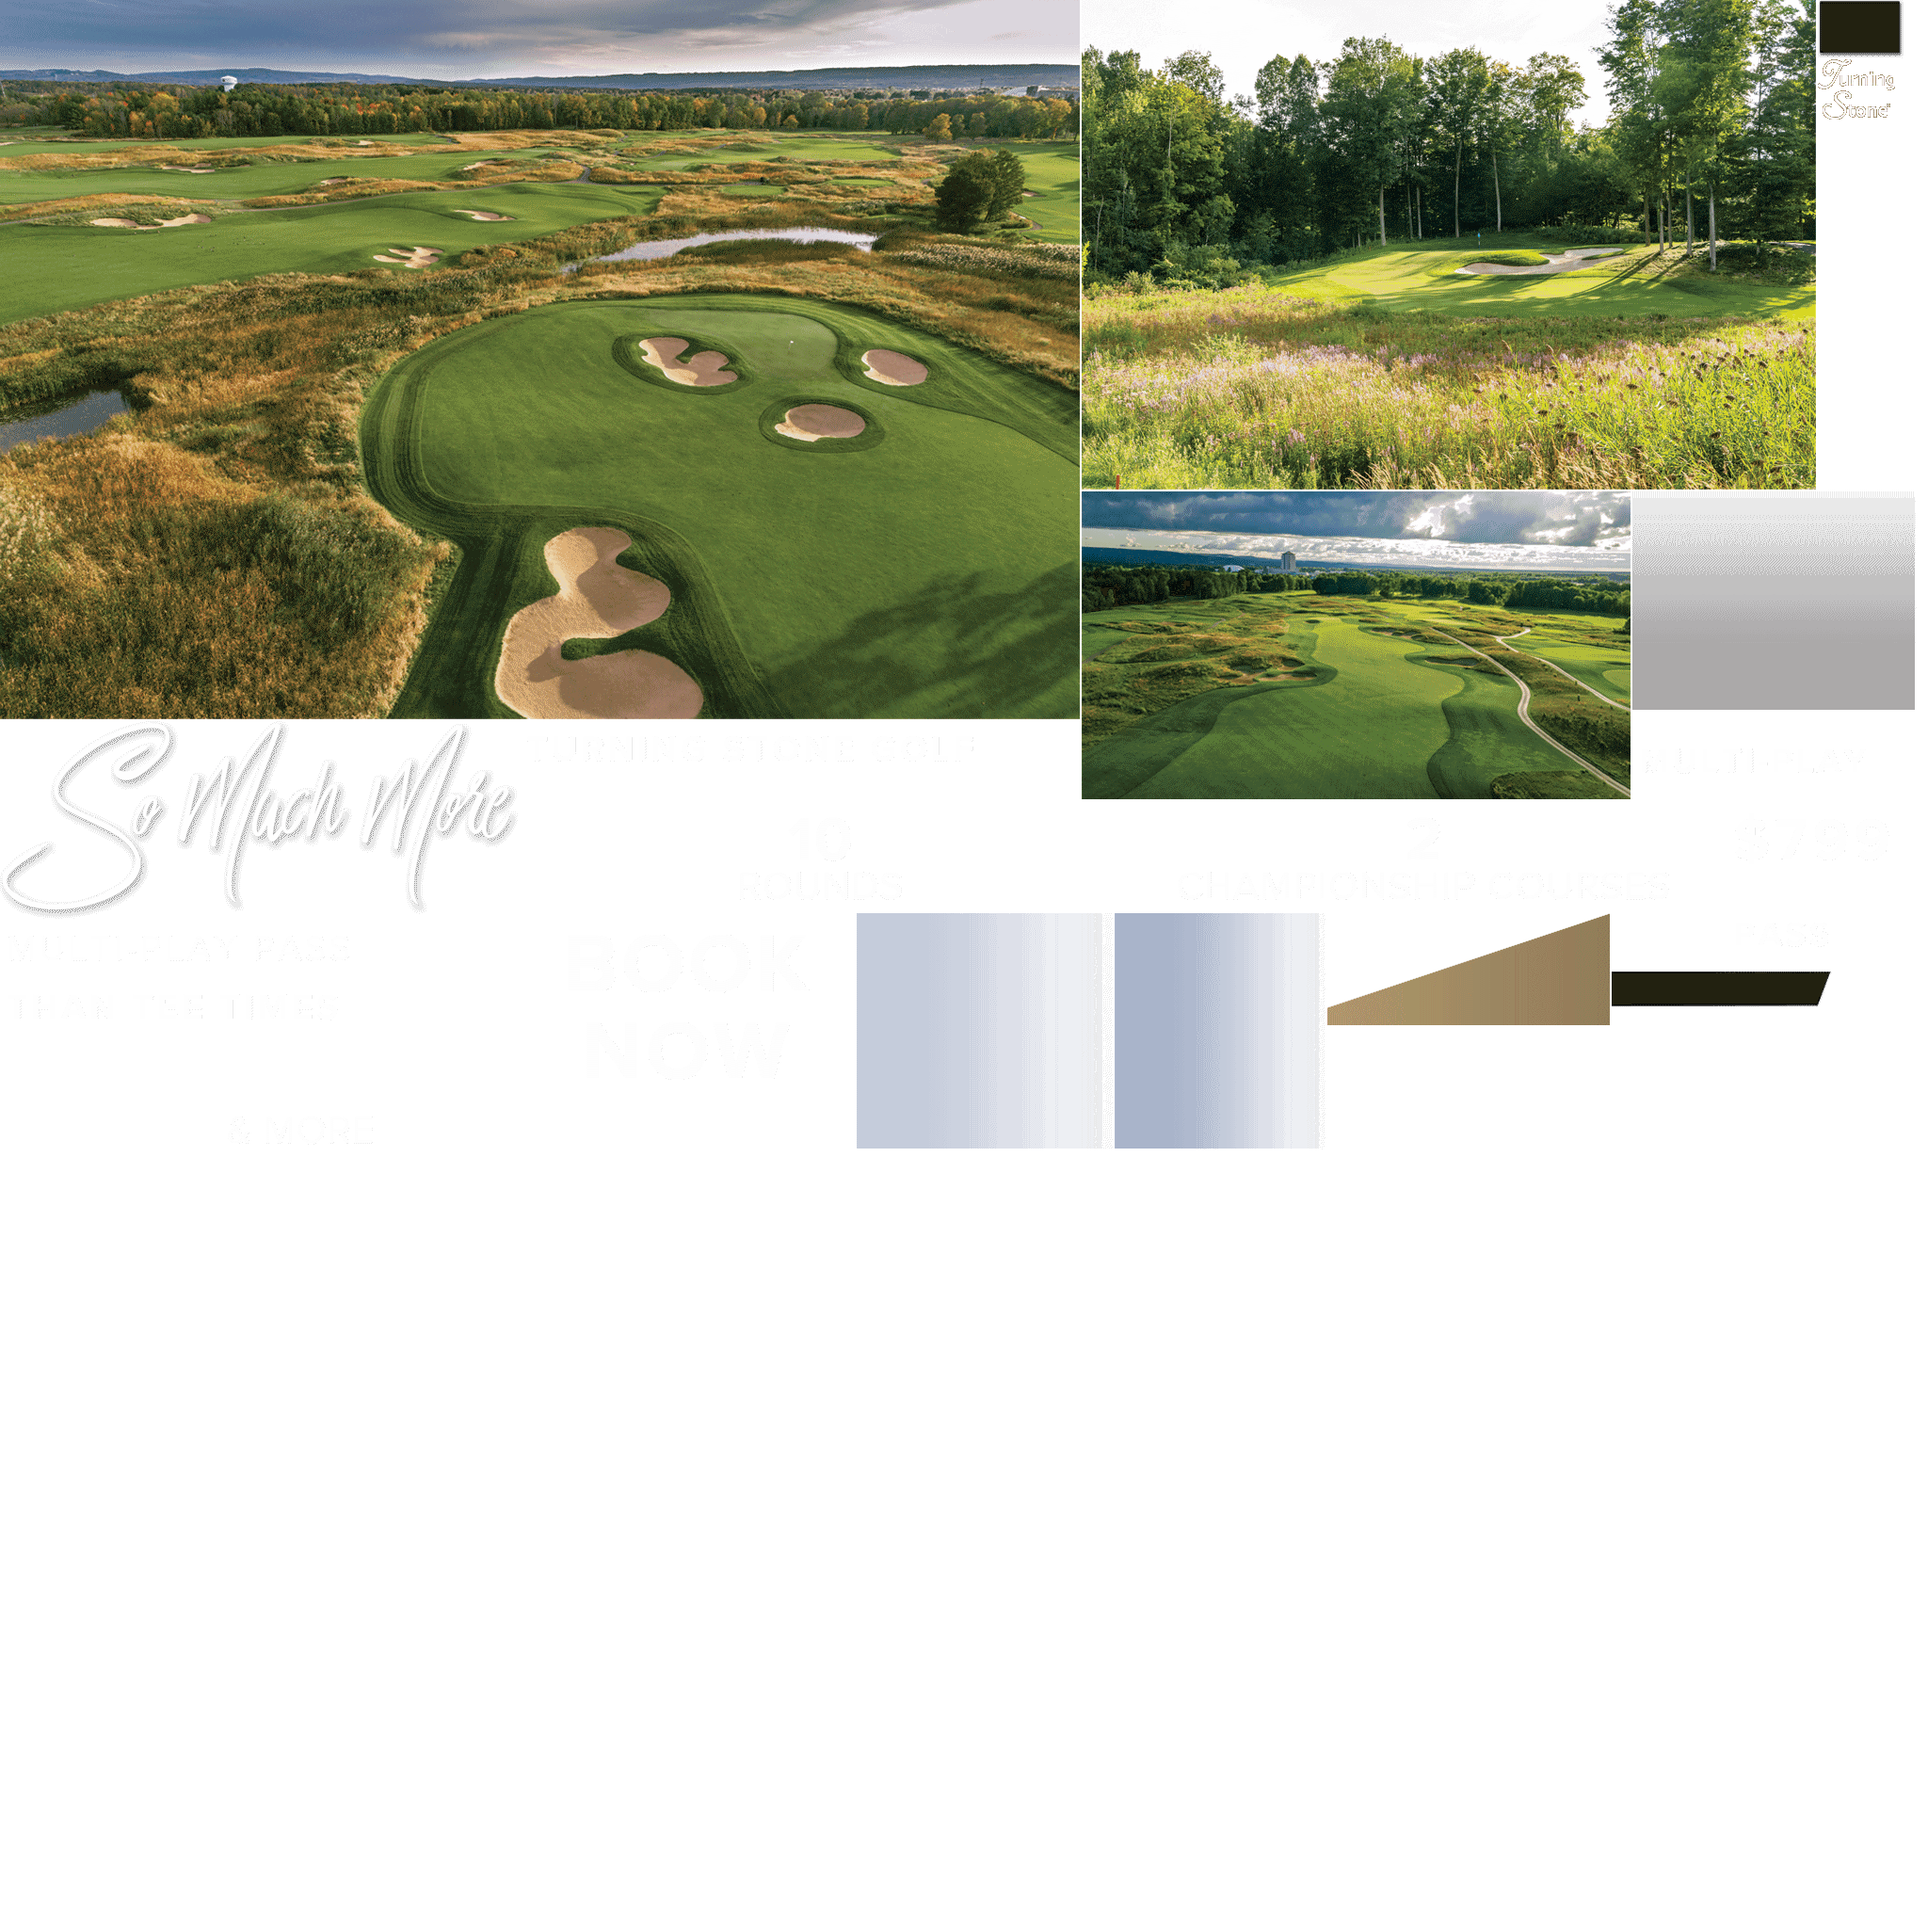
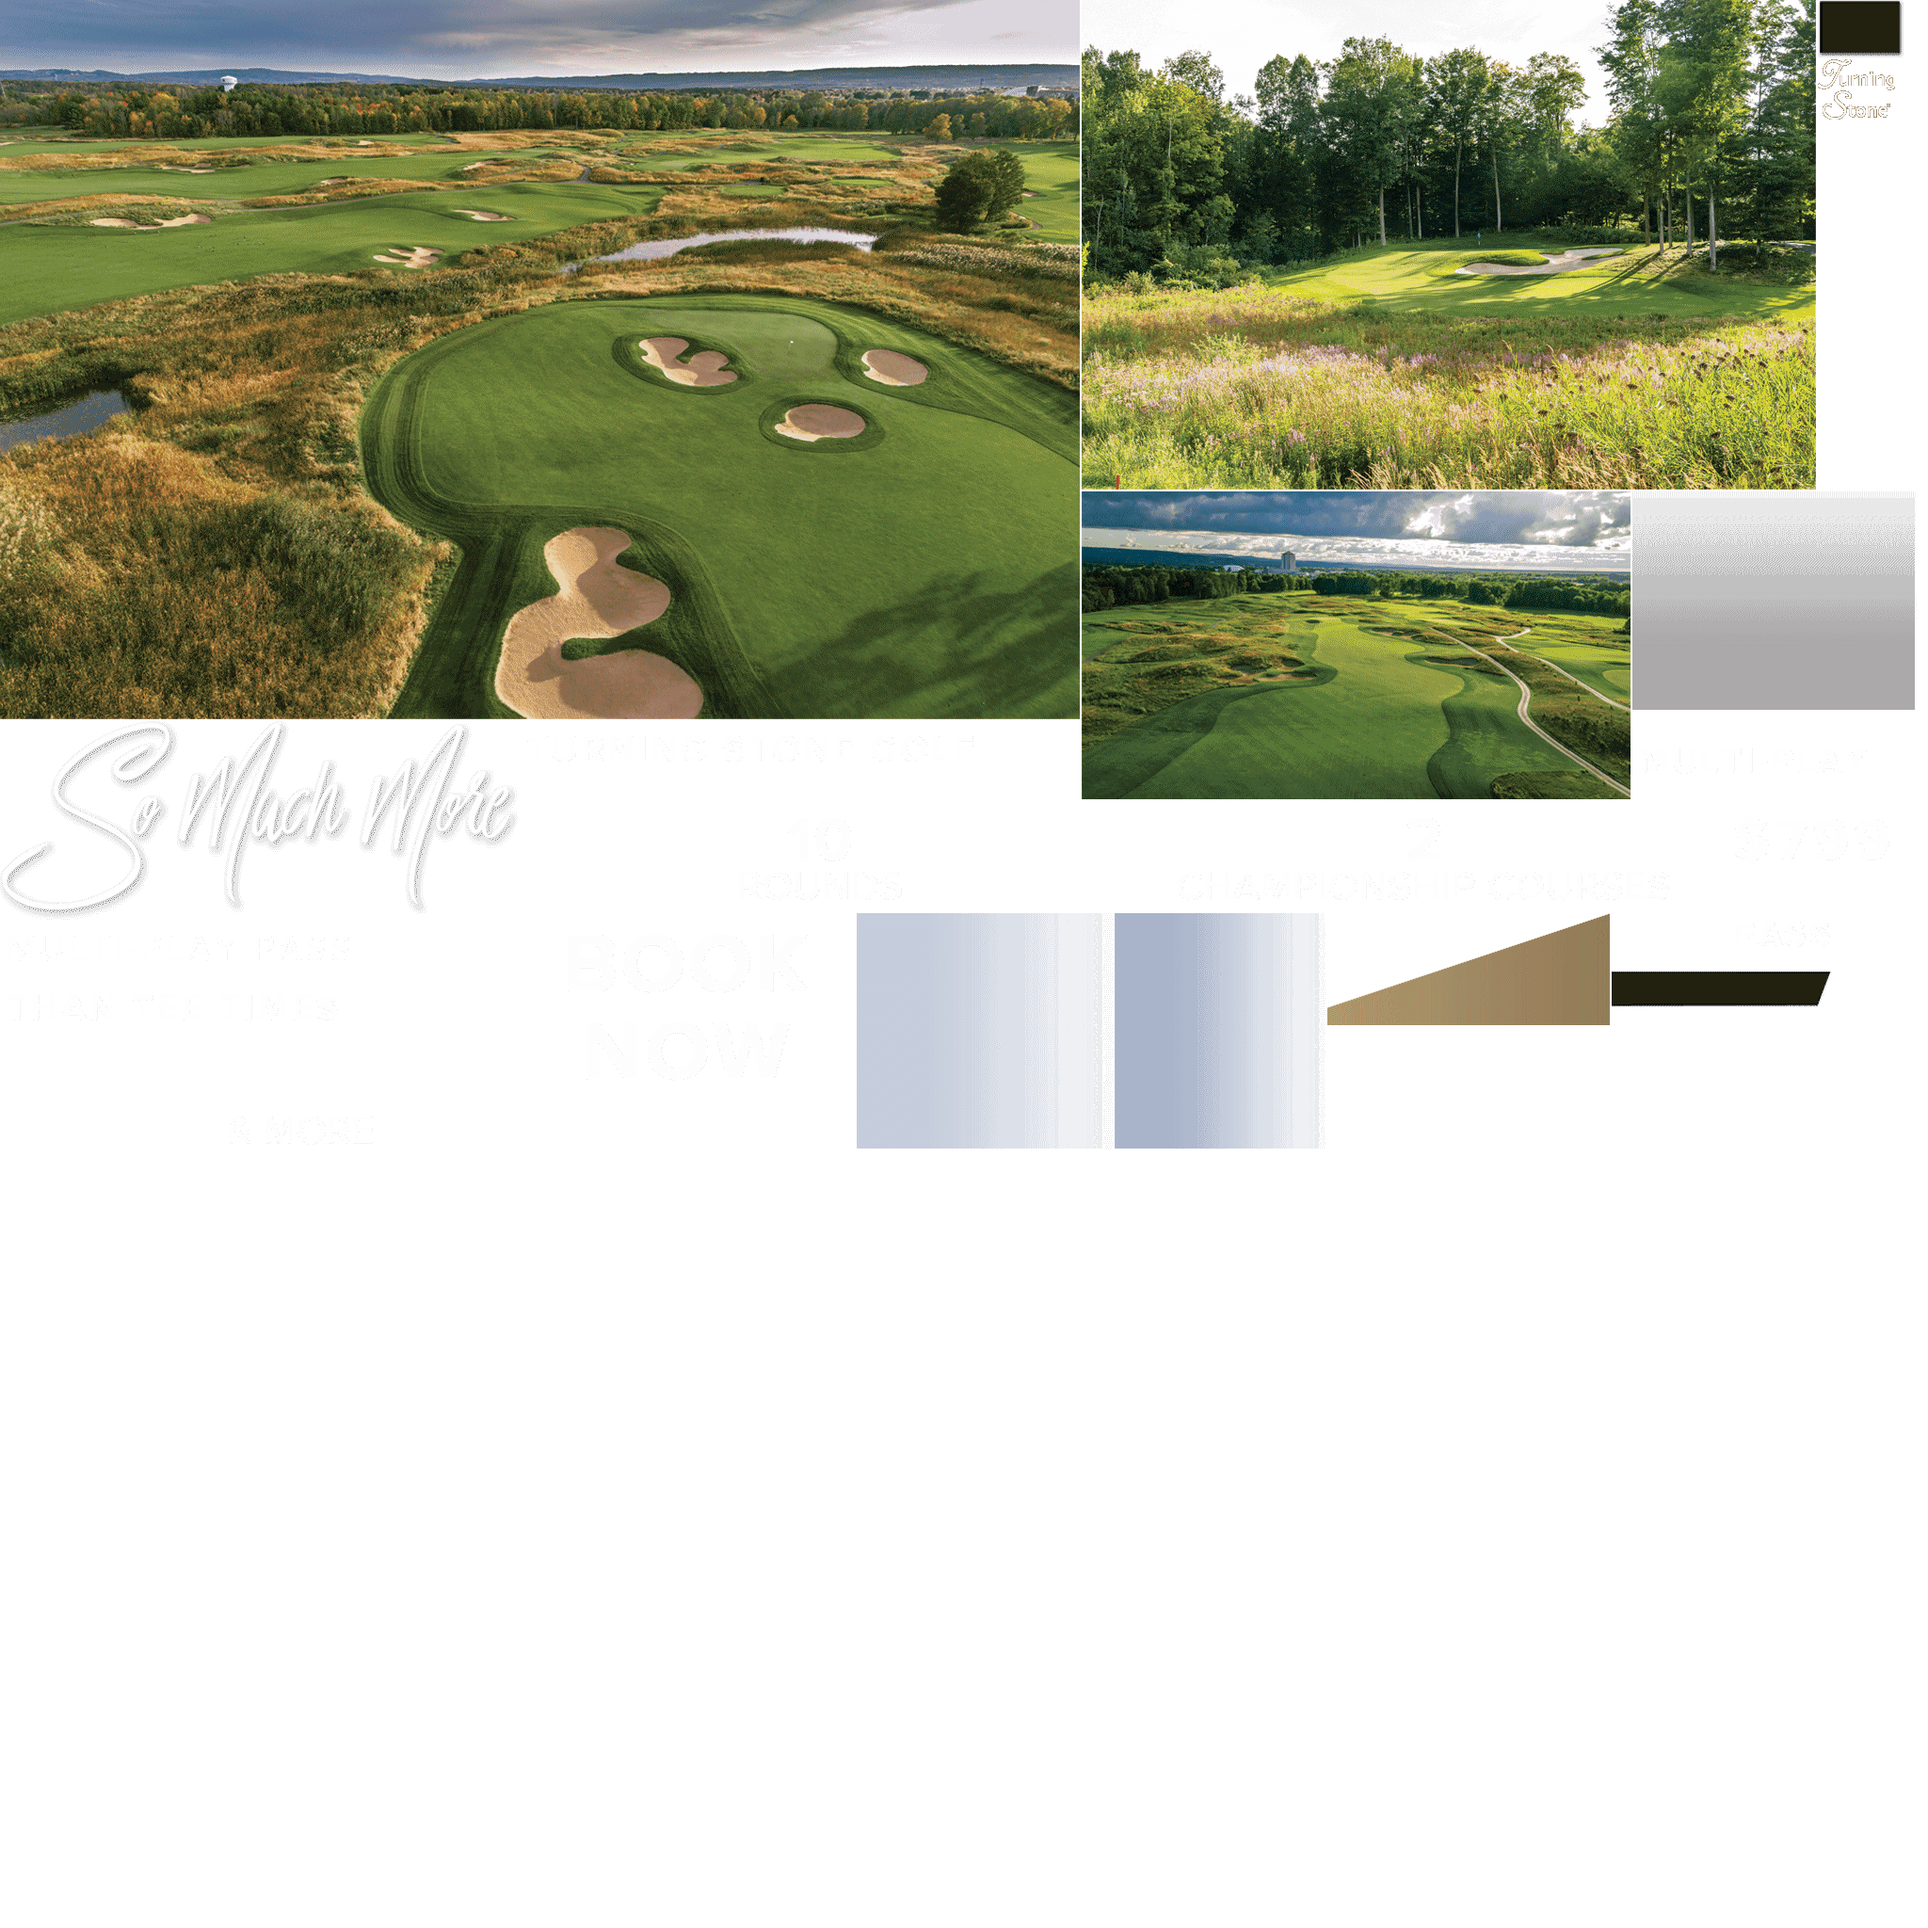
Golf Multiplay

diff --git a/golf-multiplay/300x250/GolfMultiplayer-300x250.js b/golf-multiplay/300x250/GolfMultiplayer-300x250.js
@@ -27,70 +27,70 @@ lib.ssMetadata = [
 
 
 
-(lib.CachedBmp_127 = function() {
+(lib.CachedBmp_10 = function() {
 	this.initialize(ss["GolfMultiplayer_300x250_atlas_1"]);
 	this.gotoAndStop(0);
 }).prototype = p = new cjs.Sprite();
 
 
 
-(lib.CachedBmp_126 = function() {
+(lib.CachedBmp_9 = function() {
 	this.initialize(ss["GolfMultiplayer_300x250_atlas_1"]);
 	this.gotoAndStop(1);
 }).prototype = p = new cjs.Sprite();
 
 
 
-(lib.CachedBmp_125 = function() {
+(lib.CachedBmp_8 = function() {
 	this.initialize(ss["GolfMultiplayer_300x250_atlas_1"]);
 	this.gotoAndStop(2);
 }).prototype = p = new cjs.Sprite();
 
 
 
-(lib.CachedBmp_124 = function() {
+(lib.CachedBmp_7 = function() {
 	this.initialize(ss["GolfMultiplayer_300x250_atlas_1"]);
 	this.gotoAndStop(3);
 }).prototype = p = new cjs.Sprite();
 
 
 
-(lib.CachedBmp_123 = function() {
+(lib.CachedBmp_6 = function() {
 	this.initialize(ss["GolfMultiplayer_300x250_atlas_1"]);
 	this.gotoAndStop(4);
 }).prototype = p = new cjs.Sprite();
 
 
 
-(lib.CachedBmp_122 = function() {
+(lib.CachedBmp_5 = function() {
 	this.initialize(ss["GolfMultiplayer_300x250_atlas_1"]);
 	this.gotoAndStop(5);
 }).prototype = p = new cjs.Sprite();
 
 
 
-(lib.CachedBmp_121 = function() {
+(lib.CachedBmp_4 = function() {
 	this.initialize(ss["GolfMultiplayer_300x250_atlas_1"]);
 	this.gotoAndStop(6);
 }).prototype = p = new cjs.Sprite();
 
 
 
-(lib.CachedBmp_120 = function() {
+(lib.CachedBmp_3 = function() {
 	this.initialize(ss["GolfMultiplayer_300x250_atlas_1"]);
 	this.gotoAndStop(7);
 }).prototype = p = new cjs.Sprite();
 
 
 
-(lib.CachedBmp_119 = function() {
+(lib.CachedBmp_2 = function() {
 	this.initialize(ss["GolfMultiplayer_300x250_atlas_1"]);
 	this.gotoAndStop(8);
 }).prototype = p = new cjs.Sprite();
 
 
 
-(lib.CachedBmp_118 = function() {
+(lib.CachedBmp_1 = function() {
 	this.initialize(ss["GolfMultiplayer_300x250_atlas_1"]);
 	this.gotoAndStop(9);
 }).prototype = p = new cjs.Sprite();
@@ -308,72 +308,6 @@ if (reversed == null) { reversed = false; }
 p.nominalBounds = new cjs.Rectangle(-150,-125,300,250);
 
 
-(lib.Pass = function(mode,startPosition,loop,reversed) {
-if (loop == null) { loop = true; }
-if (reversed == null) { reversed = false; }
-	var props = new Object();
-	props.mode = mode;
-	props.startPosition = startPosition;
-	props.labels = {};
-	props.loop = loop;
-	props.reversed = reversed;
-	cjs.MovieClip.apply(this,[props]);
-
-	// Layer_1
-	this.instance = new lib.CachedBmp_127();
-	this.instance.setTransform(-35.1,-49.5,0.5,0.5);
-
-	this.timeline.addTween(cjs.Tween.get(this.instance).wait(1));
-
-	this._renderFirstFrame();
-
-}).prototype = getMCSymbolPrototype(lib.Pass, new cjs.Rectangle(-35.1,-49.5,60,45), null);
-
-
-(lib.MULTIPLAYPASS799 = function(mode,startPosition,loop,reversed) {
-if (loop == null) { loop = true; }
-if (reversed == null) { reversed = false; }
-	var props = new Object();
-	props.mode = mode;
-	props.startPosition = startPosition;
-	props.labels = {};
-	props.loop = loop;
-	props.reversed = reversed;
-	cjs.MovieClip.apply(this,[props]);
-
-	// Layer_1
-	this.instance = new lib.CachedBmp_126();
-	this.instance.setTransform(-69.8,-49.5,0.5,0.5);
-
-	this.timeline.addTween(cjs.Tween.get(this.instance).wait(1));
-
-	this._renderFirstFrame();
-
-}).prototype = getMCSymbolPrototype(lib.MULTIPLAYPASS799, new cjs.Rectangle(-69.8,-49.5,129.5,45), null);
-
-
-(lib.Frame3BOOKNOW = function(mode,startPosition,loop,reversed) {
-if (loop == null) { loop = true; }
-if (reversed == null) { reversed = false; }
-	var props = new Object();
-	props.mode = mode;
-	props.startPosition = startPosition;
-	props.labels = {};
-	props.loop = loop;
-	props.reversed = reversed;
-	cjs.MovieClip.apply(this,[props]);
-
-	// Layer_1
-	this.instance = new lib.CachedBmp_125();
-	this.instance.setTransform(-40.1,-25.6,0.2257,0.2257);
-
-	this.timeline.addTween(cjs.Tween.get(this.instance).wait(1));
-
-	this._renderFirstFrame();
-
-}).prototype = getMCSymbolPrototype(lib.Frame3BOOKNOW, new cjs.Rectangle(-40.1,-25.6,80.4,45.8), null);
-
-
 (lib.Frame3BookLINKarea_1 = function(mode,startPosition,loop,reversed) {
 if (loop == null) { loop = true; }
 if (reversed == null) { reversed = false; }
@@ -396,6 +330,94 @@ if (reversed == null) { reversed = false; }
 }).prototype = getMCSymbolPrototype(lib.Frame3BookLINKarea_1, new cjs.Rectangle(-45.5,-30.5,91,61), null);
 
 
+(lib.BarunderTagline_1 = function(mode,startPosition,loop,reversed) {
+if (loop == null) { loop = true; }
+if (reversed == null) { reversed = false; }
+	var props = new Object();
+	props.mode = mode;
+	props.startPosition = startPosition;
+	props.labels = {};
+	props.loop = loop;
+	props.reversed = reversed;
+	cjs.MovieClip.apply(this,[props]);
+
+	// Layer_1
+	this.instance = new lib.BarunderTagline();
+	this.instance.setTransform(-116.5,-18.5);
+
+	this.timeline.addTween(cjs.Tween.get(this.instance).wait(1));
+
+	this._renderFirstFrame();
+
+}).prototype = getMCSymbolPrototype(lib.BarunderTagline_1, new cjs.Rectangle(-116.5,-18.5,233,37), null);
+
+
+(lib.Pass = function(mode,startPosition,loop,reversed) {
+if (loop == null) { loop = true; }
+if (reversed == null) { reversed = false; }
+	var props = new Object();
+	props.mode = mode;
+	props.startPosition = startPosition;
+	props.labels = {};
+	props.loop = loop;
+	props.reversed = reversed;
+	cjs.MovieClip.apply(this,[props]);
+
+	// Layer_1
+	this.instance = new lib.CachedBmp_10();
+	this.instance.setTransform(-35.1,-49.5,0.5,0.5);
+
+	this.timeline.addTween(cjs.Tween.get(this.instance).wait(1));
+
+	this._renderFirstFrame();
+
+}).prototype = getMCSymbolPrototype(lib.Pass, new cjs.Rectangle(-35.1,-49.5,60,45), null);
+
+
+(lib.MULTIPLAYPASS799 = function(mode,startPosition,loop,reversed) {
+if (loop == null) { loop = true; }
+if (reversed == null) { reversed = false; }
+	var props = new Object();
+	props.mode = mode;
+	props.startPosition = startPosition;
+	props.labels = {};
+	props.loop = loop;
+	props.reversed = reversed;
+	cjs.MovieClip.apply(this,[props]);
+
+	// Layer_1
+	this.instance = new lib.CachedBmp_9();
+	this.instance.setTransform(-69.8,-49.5,0.5,0.5);
+
+	this.timeline.addTween(cjs.Tween.get(this.instance).wait(1));
+
+	this._renderFirstFrame();
+
+}).prototype = getMCSymbolPrototype(lib.MULTIPLAYPASS799, new cjs.Rectangle(-69.8,-49.5,129.5,45), null);
+
+
+(lib.Frame3BOOKNOW = function(mode,startPosition,loop,reversed) {
+if (loop == null) { loop = true; }
+if (reversed == null) { reversed = false; }
+	var props = new Object();
+	props.mode = mode;
+	props.startPosition = startPosition;
+	props.labels = {};
+	props.loop = loop;
+	props.reversed = reversed;
+	cjs.MovieClip.apply(this,[props]);
+
+	// Layer_1
+	this.instance = new lib.CachedBmp_8();
+	this.instance.setTransform(-40.1,-25.6,0.2257,0.2257);
+
+	this.timeline.addTween(cjs.Tween.get(this.instance).wait(1));
+
+	this._renderFirstFrame();
+
+}).prototype = getMCSymbolPrototype(lib.Frame3BOOKNOW, new cjs.Rectangle(-40.1,-25.6,80.4,45.8), null);
+
+
 (lib._799 = function(mode,startPosition,loop,reversed) {
 if (loop == null) { loop = true; }
 if (reversed == null) { reversed = false; }
@@ -408,7 +430,7 @@ if (reversed == null) { reversed = false; }
 	cjs.MovieClip.apply(this,[props]);
 
 	// Layer_1
-	this.instance = new lib.CachedBmp_124();
+	this.instance = new lib.CachedBmp_7();
 	this.instance.setTransform(-51.85,-49.5,0.5,0.5);
 
 	this.timeline.addTween(cjs.Tween.get(this.instance).wait(1));
@@ -452,7 +474,7 @@ if (reversed == null) { reversed = false; }
 	cjs.MovieClip.apply(this,[props]);
 
 	// Layer_1
-	this.instance = new lib.CachedBmp_123();
+	this.instance = new lib.CachedBmp_6();
 	this.instance.setTransform(-159.85,-165.4,0.5,0.5);
 
 	this.timeline.addTween(cjs.Tween.get(this.instance).wait(1));
@@ -474,7 +496,7 @@ if (reversed == null) { reversed = false; }
 	cjs.MovieClip.apply(this,[props]);
 
 	// Layer_1
-	this.instance = new lib.CachedBmp_122();
+	this.instance = new lib.CachedBmp_5();
 	this.instance.setTransform(-159.85,-165.4,0.5,0.5);
 
 	this.timeline.addTween(cjs.Tween.get(this.instance).wait(1));
@@ -496,7 +518,7 @@ if (reversed == null) { reversed = false; }
 	cjs.MovieClip.apply(this,[props]);
 
 	// Layer_1
-	this.instance = new lib.CachedBmp_121();
+	this.instance = new lib.CachedBmp_4();
 	this.instance.setTransform(-159.85,-165.4,0.5,0.5);
 
 	this.timeline.addTween(cjs.Tween.get(this.instance).wait(1));
@@ -540,7 +562,7 @@ if (reversed == null) { reversed = false; }
 	cjs.MovieClip.apply(this,[props]);
 
 	// Layer_1
-	this.instance = new lib.CachedBmp_120();
+	this.instance = new lib.CachedBmp_3();
 	this.instance.setTransform(-133.45,-28.85,0.5,0.5);
 
 	this.timeline.addTween(cjs.Tween.get(this.instance).wait(1));
@@ -562,7 +584,7 @@ if (reversed == null) { reversed = false; }
 	cjs.MovieClip.apply(this,[props]);
 
 	// Layer_1
-	this.instance_1 = new lib.CachedBmp_119();
+	this.instance_1 = new lib.CachedBmp_2();
 	this.instance_1.setTransform(-105.95,-28.85,0.5,0.5);
 
 	this.timeline.addTween(cjs.Tween.get(this.instance_1).wait(1));
@@ -584,7 +606,7 @@ if (reversed == null) { reversed = false; }
 	cjs.MovieClip.apply(this,[props]);
 
 	// Layer_1
-	this.instance = new lib.CachedBmp_118();
+	this.instance = new lib.CachedBmp_1();
 	this.instance.setTransform(-101.6,-17.55,0.5,0.5);
 
 	this.timeline.addTween(cjs.Tween.get(this.instance).wait(1));
@@ -592,28 +614,6 @@ if (reversed == null) { reversed = false; }
 	this._renderFirstFrame();
 
 }).prototype = getMCSymbolPrototype(lib.THANTEETIMES, new cjs.Rectangle(-101.6,-17.5,185.5,30.5), null);
-
-
-(lib.BarunderTagline_1 = function(mode,startPosition,loop,reversed) {
-if (loop == null) { loop = true; }
-if (reversed == null) { reversed = false; }
-	var props = new Object();
-	props.mode = mode;
-	props.startPosition = startPosition;
-	props.labels = {};
-	props.loop = loop;
-	props.reversed = reversed;
-	cjs.MovieClip.apply(this,[props]);
-
-	// Layer_1
-	this.instance = new lib.BarunderTagline();
-	this.instance.setTransform(-116.5,-18.5);
-
-	this.timeline.addTween(cjs.Tween.get(this.instance).wait(1));
-
-	this._renderFirstFrame();
-
-}).prototype = getMCSymbolPrototype(lib.BarunderTagline_1, new cjs.Rectangle(-116.5,-18.5,233,37), null);
 
 
 // stage content:
@@ -697,11 +697,11 @@ if (reversed == null) { reversed = false; }
 
 	// Frame_3___Book_LINK_area
 	this.instance_3 = new lib.Frame3BookLINKarea_1();
-	this.instance_3.setTransform(74.5,143.4,2.0438,2.0441,0,0,0,0.2,0.3);
+	this.instance_3.setTransform(74.6,143.9,2.0218,2.022,0,0,0,0.4,0.5);
 	this.instance_3.alpha = 0;
 	this.instance_3._off = true;
 
-	this.timeline.addTween(cjs.Tween.get(this.instance_3).wait(292).to({_off:false},0).to({regX:0,regY:0,scaleX:1,scaleY:1,y:143.5,alpha:1},21,cjs.Ease.cubicOut).wait(47));
+	this.timeline.addTween(cjs.Tween.get(this.instance_3).wait(292).to({_off:false},0).to({regX:0,regY:0,scaleX:1,scaleY:1,x:74.5,y:143.5,alpha:1},21,cjs.Ease.cubicOut).wait(47));
 
 	// _99
 	this.instance_4 = new lib._799();
@@ -877,7 +877,7 @@ if (reversed == null) { reversed = false; }
 
 	// Bar_under_Tagline
 	this.instance_19 = new lib.BarunderTagline_1();
-	this.instance_19.setTransform(-120,84.5);
+	this.instance_19.setTransform(-122,84.5);
 
 	this.timeline.addTween(cjs.Tween.get(this.instance_19).to({x:116.5},23,cjs.Ease.quintOut).to({_off:true},85).wait(252));
 
@@ -905,8 +905,8 @@ lib.properties = {
 	color: "#FFFFFF",
 	opacity: 1.00,
 	manifest: [
-		{src:"images/Frame2ImageMed.jpg?1618764831532", id:"Frame2ImageMed"},
-		{src:"images/GolfMultiplayer_300x250_atlas_1.png?1618764831494", id:"GolfMultiplayer_300x250_atlas_1"}
+		{src:"images/Frame2ImageMed.jpg?1618767837425", id:"Frame2ImageMed"},
+		{src:"images/GolfMultiplayer_300x250_atlas_1.png?1618767837390", id:"GolfMultiplayer_300x250_atlas_1"}
 	],
 	preloads: []
 };

diff --git a/golf-multiplay/300x250/index.html b/golf-multiplay/300x250/index.html
@@ -14,7 +14,7 @@
 <title>GolfMultiplayer-300x250</title>
 <!-- write your code here -->
 <script src="https://code.createjs.com/1.0.0/createjs.min.js"></script>
-<script src="GolfMultiplayer-300x250.js?1618764831540"></script>
+<script src="GolfMultiplayer-300x250.js?1618767837433"></script>
 <script>
 var canvas, stage, exportRoot, anim_container, dom_overlay_container, fnStartAnimation;
 function init() {
